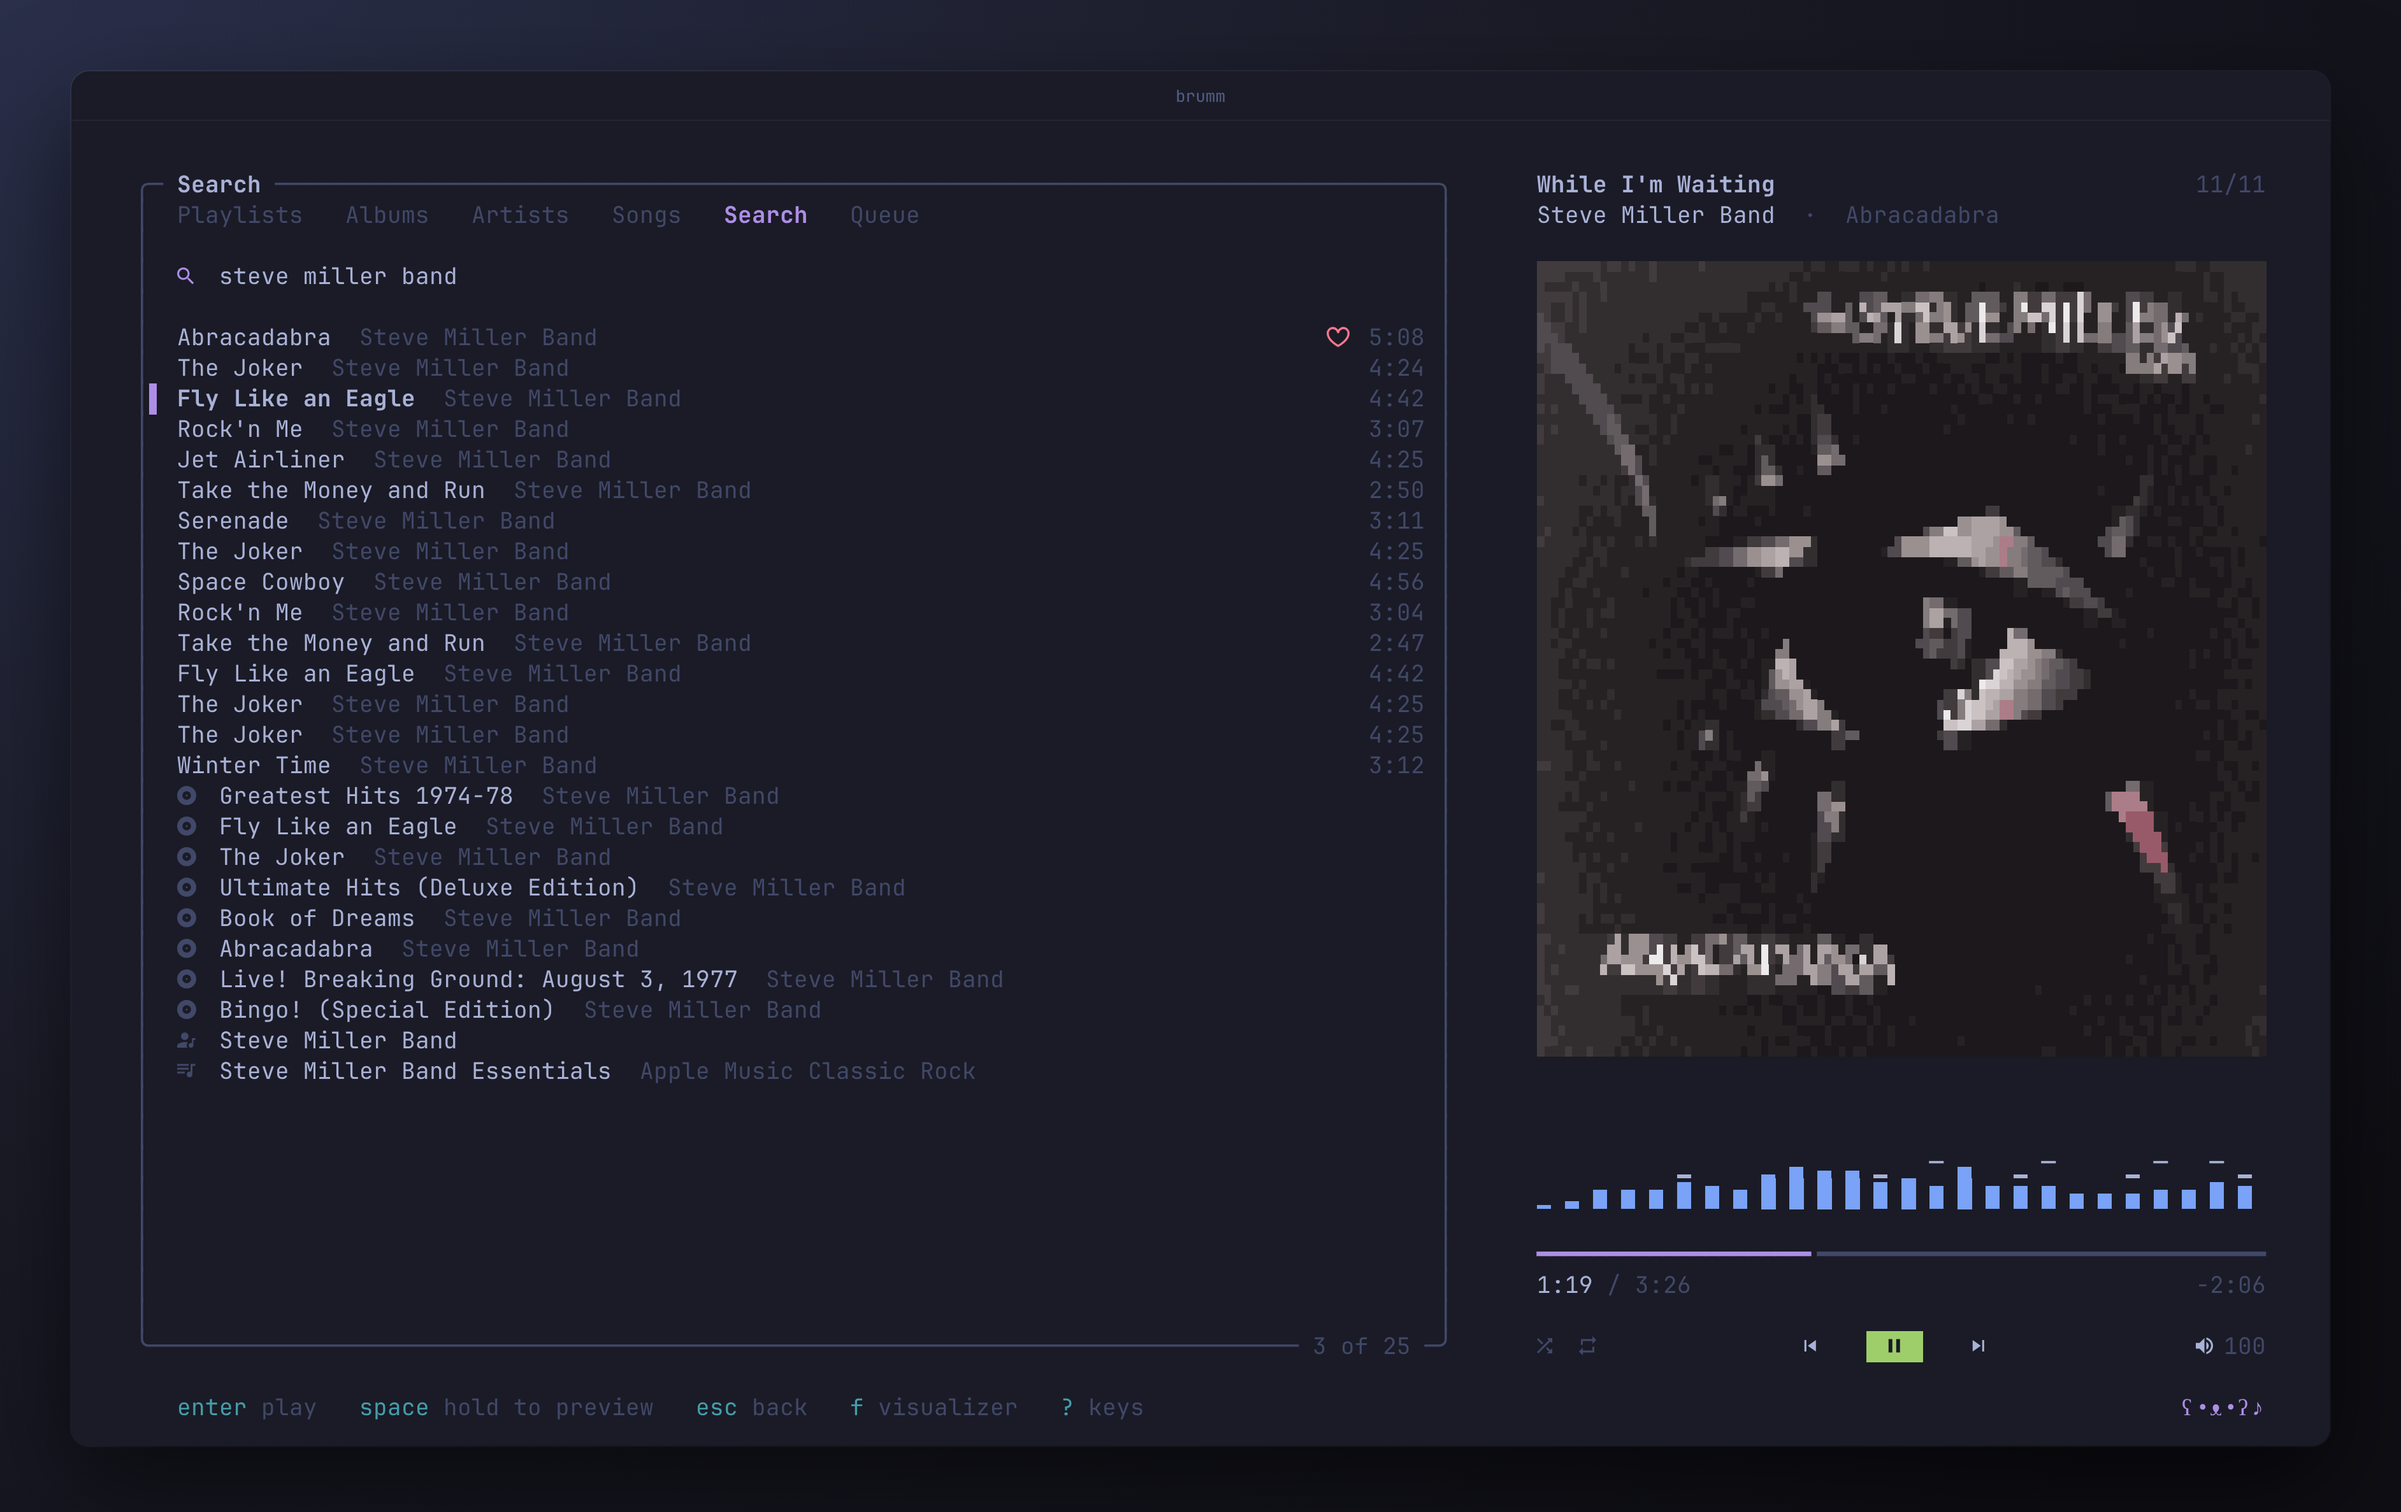
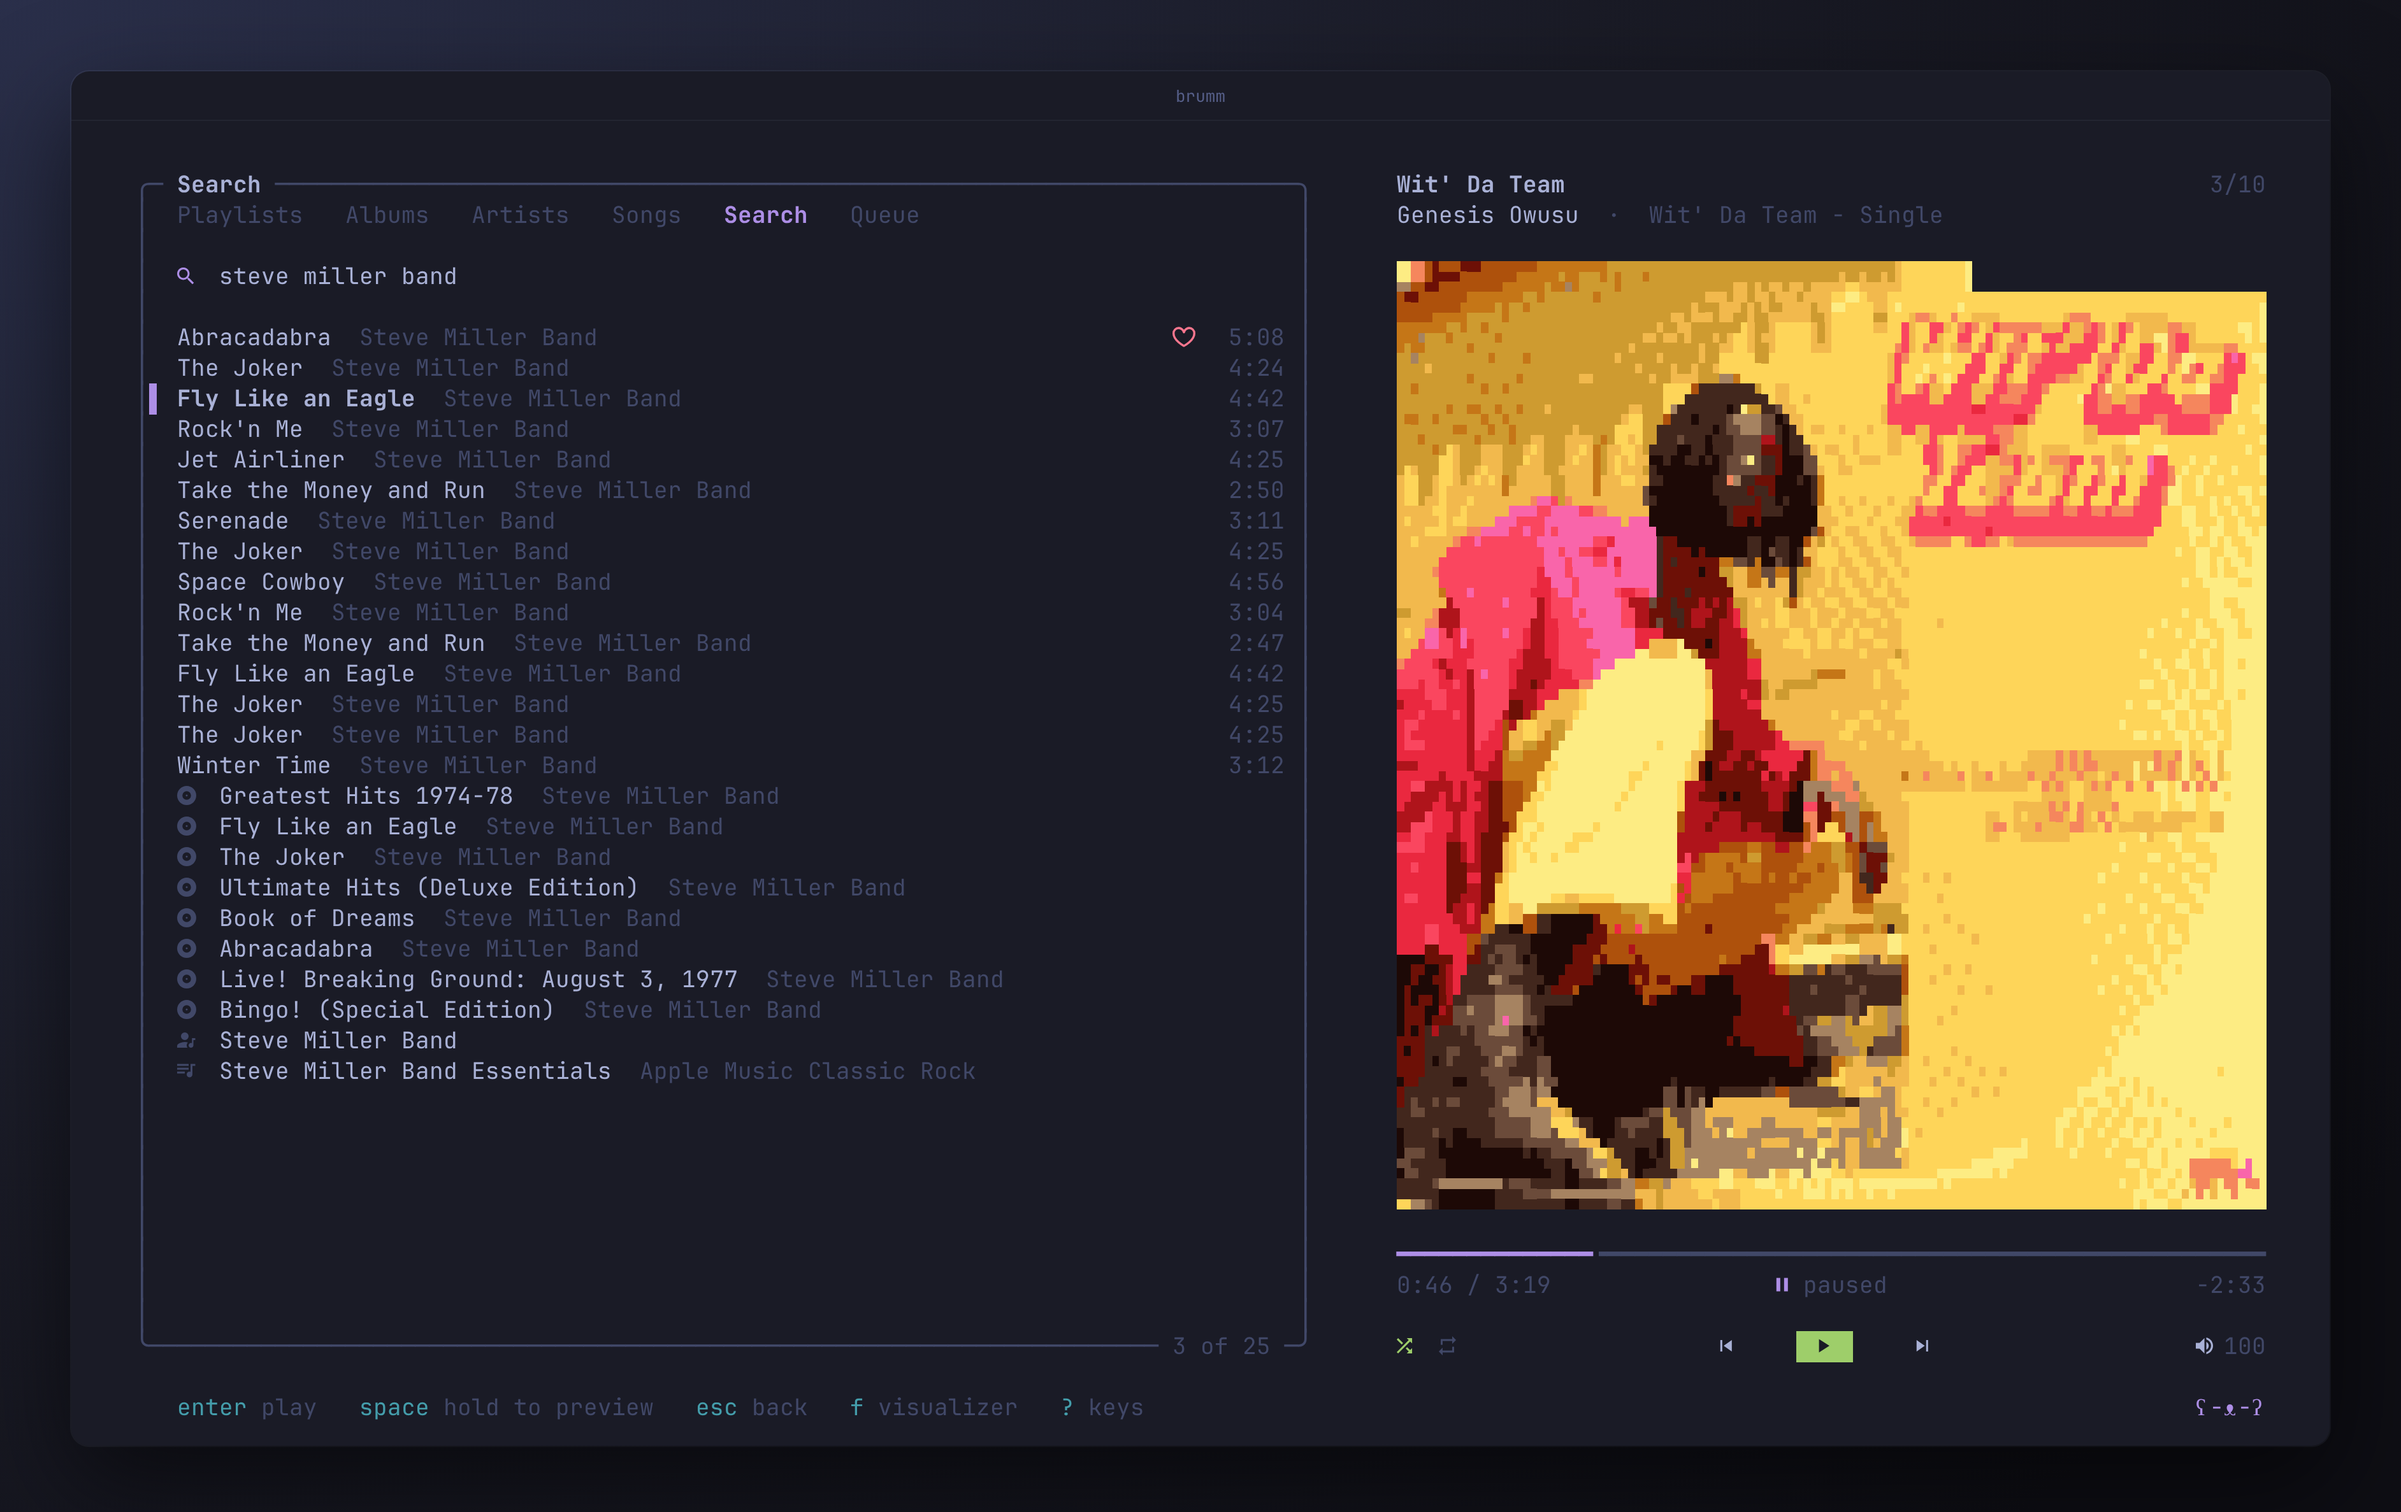
Preview cards for playlists and albums; half and half
- Lists of playlists, albums and artists show a card with the selected
  one's cover, name and artist in the room to their right; its cover is
  fetched first and cached like every other.
- The list takes half the width by default (drag or [ ] to change); the
  stage centers the cover in its half.

Changed region(s): [[0.5279, 0.0935, 0.9626, 0.8416], [0.7452, 0.8728, 0.8073, 0.904], [0.4968, 0.8728, 0.5279, 0.904]]

diff --git a/internal/tui/view.go b/internal/tui/view.go
@@ -95,10 +95,8 @@ func (m *Model) render() string {
 	inner := m.width - 2*margin
 	bodyH := m.height - bodyTop - 2 // blank line + footer
 
-	// The list gets at least its share of the width (2/5 unless dragged).
-	// The stage is one column as wide as the cover, which is as large as
-	// the rest of the width and the height allow; any width the cover
-	// cannot use goes back to the list, so nothing floats in a gap.
+	// The list takes its share of the width — half unless dragged — and the
+	// stage the rest, with the cover's column centered in it.
 	gapW := 2 + 2*stagePad
 	navW := int(math.Round(float64(inner) * m.split))
 	navW = max(navMin, min(navW, inner-gapW-colMin))
@@ -112,12 +110,15 @@ func (m *Model) render() string {
 		coverH := max(0, bodyH-1-stageBelow)
 		coverH = min(coverH, int(float64(room)/m.cellAspect))
 		colW := max(colMin, min(room, int(math.Round(float64(coverH)*m.cellAspect))))
-		navW = inner - gapW - colW
-		stageX := margin + navW + gapW
+		inset := (room - colW) / 2
+		stageX := margin + navW + gapW + inset
 		m.geo.divider = rect{margin + navW - 1, bodyTop, margin + navW + gapW, bodyTop + bodyH}
+		stage := strings.Split(m.stage(colW, coverH, bodyH, stageX, bodyTop), "\n")
+		for i := range stage {
+			stage[i] = strings.Repeat(" ", inset) + stage[i] + strings.Repeat(" ", room-colW-inset)
+		}
 		body = lipgloss.JoinHorizontal(lipgloss.Top,
-			m.nav(navW, bodyH, margin, bodyTop), strings.Repeat(" ", gapW),
-			m.stage(colW, coverH, bodyH, stageX, bodyTop))
+			m.nav(navW, bodyH, margin, bodyTop), strings.Repeat(" ", gapW), strings.Join(stage, "\n"))
 	}
 	pad := strings.Repeat(" ", margin)
 	lines := strings.Split(body, "\n")
@@ -217,8 +218,28 @@ func (m *Model) nav(w, h, x, y int) string {
 	default:
 		v.off = scroll(v.sel, v.off, rows)
 		m.geo.list = rect{x + 1, top, x + w - 1, top + rows}
-		for i := v.off; i < len(v.rows) && i < v.off+rows; i++ {
-			lines = append(lines, m.row(v, i, inner))
+		// Lists of playlists, albums and artists are short names with room
+		// to spare: the right side shows a card for the selected one.
+		card := m.previewCard(v, inner, rows)
+		listW := inner
+		if card != nil {
+			listW = inner - lipgloss.Width(card[0]) - 3
+		}
+		for i := v.off; i < v.off+rows; i++ {
+			line := ""
+			if i < len(v.rows) {
+				line = m.row(v, i, listW)
+			} else if card == nil {
+				break
+			}
+			if card != nil {
+				c := ""
+				if j := i - v.off; j < len(card) {
+					c = card[j]
+				}
+				line = pad(line, listW) + "   " + c
+			}
+			lines = append(lines, line)
 		}
 	}
 
@@ -249,6 +270,48 @@ func (m *Model) searchBox(w int) string {
 		return sDim.Render(icSearch + "  search Apple Music")
 	}
 	return sHere.Render(icSearch) + "  " + ansi.TruncateLeft(q, max(0, lipgloss.Width(q)-(w-5)), "…") + cursor
+}
+
+// previewCard is the selected item's cover with its name under it, for
+// lists of items wide enough to hold it; nil otherwise.
+func (m *Model) previewCard(v *view, inner, rows int) []string {
+	if v.sel >= len(v.rows) || v.rows[v.sel].item == nil || inner < 70 || rows < 12 {
+		return nil
+	}
+	it := v.rows[v.sel].item
+	cw := min(inner*2/5, 44)
+	chh := min(rows-3, int(float64(cw)/m.cellAspect))
+	cw = int(math.Round(float64(chh) * m.cellAspect))
+	if chh < 6 {
+		return nil
+	}
+	var out []string
+	size := art.Size{Width: cw, Height: chh}
+	key := fmt.Sprintf("%s@%dx%d", it.Artwork, cw, chh)
+	if lines, ok := m.thumbs[key]; ok {
+		out = append(out, lines...)
+	} else if img := m.covers[it.Artwork]; img != nil {
+		lines := art.RenderDithered(img, size)
+		m.thumbs[key] = lines
+		out = append(out, lines...)
+	} else {
+		icon := map[string]string{apple.KindPlaylist: icPlaylist, apple.KindAlbum: icAlbum, apple.KindArtist: icArtist}[it.Kind]
+		for i := range chh {
+			l := strings.Repeat("░", cw)
+			if i == chh/2 {
+				l = strings.Repeat("░", cw/2-1) + " " + icon + " " + strings.Repeat("░", cw-cw/2-2)
+			}
+			out = append(out, sDim.Render(l))
+		}
+	}
+	out = append(out, "", sBold.Render(ansi.Truncate(it.Name, cw, "…")))
+	if it.Artist != "" {
+		out = append(out, sDim.Render(ansi.Truncate(it.Artist, cw, "…")))
+	}
+	for i := range out {
+		out[i] = pad(out[i], cw)
+	}
+	return out
 }
 
 // row renders one list line: the selection gutter, the text (the

diff --git a/internal/tui/model.go b/internal/tui/model.go
@@ -152,6 +152,7 @@ type Model struct {
 	covers   map[string]image.Image // recently seen covers by address
 	coverLRU []string
 	fetching map[string]bool
+	thumbs   map[string][]string // rendered preview-card covers by address and size
 
 	flash   string
 	flashAt time.Time
@@ -198,7 +199,7 @@ func newModel(client *ipc.Client, initial ipc.State) *Model {
 	m.stacks[secSearch] = []*view{{title: "Search", key: "search:", loaded: true}}
 	m.stacks[secQueue] = []*view{{title: "Queue", key: "queue:"}}
 	m.loved = map[string]bool{}
-	m.covers, m.fetching = map[string]image.Image{}, map[string]bool{}
+	m.covers, m.fetching, m.thumbs = map[string]image.Image{}, map[string]bool{}, map[string][]string{}
 	return m
 }
 
@@ -388,6 +389,9 @@ func (m *Model) keepCover(url string, img image.Image) {
 		delete(m.covers, m.coverLRU[0])
 		m.coverLRU = m.coverLRU[1:]
 	}
+	if len(m.thumbs) > 40 {
+		m.thumbs = map[string][]string{}
+	}
 }
 
 // prefetchCovers loads the covers of the rows on screen and just beyond,
@@ -396,16 +400,29 @@ func (m *Model) prefetchCovers(v *view) tea.Cmd {
 	var cmds []tea.Cmd
 	seen := map[string]bool{}
 	lo, hi := max(0, v.off-10), min(len(v.rows), v.off+m.listRows()+10)
-	for i := lo; i < hi && len(cmds) < 8; i++ {
-		t := v.rows[i].track
-		if t == nil || t.Artwork == "" || seen[t.Artwork] {
+	// The selected row first: its preview card shows it.
+	order := []int{v.sel}
+	for i := lo; i < hi; i++ {
+		order = append(order, i)
+	}
+	for _, i := range order {
+		if i < 0 || i >= len(v.rows) || len(cmds) >= 8 {
 			continue
 		}
-		seen[t.Artwork] = true
-		if _, ok := m.covers[t.Artwork]; ok {
+		url := ""
+		if t := v.rows[i].track; t != nil {
+			url = t.Artwork
+		} else if it := v.rows[i].item; it != nil {
+			url = it.Artwork
+		}
+		if url == "" || seen[url] {
 			continue
 		}
-		if cmd := m.fetchCover(t.Artwork); cmd != nil {
+		seen[url] = true
+		if _, ok := m.covers[url]; ok {
+			continue
+		}
+		if cmd := m.fetchCover(url); cmd != nil {
 			cmds = append(cmds, cmd)
 		}
 	}

diff --git a/internal/apple/apple.go b/internal/apple/apple.go
@@ -40,6 +40,7 @@ type Item struct {
 	Name    string `json:"name"`
 	Artist  string `json:"artist,omitempty"`
 	Catalog bool   `json:"catalog,omitempty"`
+	Artwork string `json:"artwork,omitempty"`
 }
 
 // Key identifies an item across kinds and sources.
@@ -65,6 +66,15 @@ type Track struct {
 // artworkSize is the cover size brumm asks for everywhere, so the same
 // cover always has the same address and caches once.
 const artworkSize = "600"
+
+func artworkURL(a *struct {
+	URL string `json:"url"`
+}) string {
+	if a == nil {
+		return ""
+	}
+	return strings.NewReplacer("{w}", artworkSize, "{h}", artworkSize).Replace(a.URL)
+}
 
 type Client struct {
 	dev, user string
@@ -213,7 +223,7 @@ func items(rs []resource, kind string, catalog bool) []Item {
 		if kind == KindPlaylist {
 			artist = a.CuratorName
 		}
-		out = append(out, Item{Kind: kind, ID: r.ID, Name: a.Name, Artist: artist, Catalog: catalog})
+		out = append(out, Item{Kind: kind, ID: r.ID, Name: a.Name, Artist: artist, Catalog: catalog, Artwork: artworkURL(a.Artwork)})
 	}
 	return out
 }
@@ -229,12 +239,8 @@ func tracks(rs []resource) []Track {
 		if a.PlayParams != nil && a.PlayParams.ID != "" {
 			id = a.PlayParams.ID
 		}
-		art := ""
-		if a.Artwork != nil {
-			art = strings.NewReplacer("{w}", artworkSize, "{h}", artworkSize).Replace(a.Artwork.URL)
-		}
 		out = append(out, Track{ID: id, Title: a.Name, Artist: a.ArtistName, Album: a.AlbumName,
-			Duration: float64(a.DurationMS) / 1000, Artwork: art})
+			Duration: float64(a.DurationMS) / 1000, Artwork: artworkURL(a.Artwork)})
 	}
 	return out
 }

diff --git a/internal/tui/run.go b/internal/tui/run.go
@@ -58,15 +58,15 @@ func binaryUpdated() bool {
 
 func splitPath() string { return filepath.Join(config.CacheDir(), "split") }
 
-// loadSplit is the list's remembered share of the width, 2/5 by default.
+// loadSplit is the list's remembered share of the width, half by default.
 func loadSplit() float64 {
 	b, err := os.ReadFile(splitPath())
 	if err != nil {
-		return 0.4
+		return 0.5
 	}
 	f, err := strconv.ParseFloat(strings.TrimSpace(string(b)), 64)
 	if err != nil || f < 0.2 || f > 0.75 {
-		return 0.4
+		return 0.5
 	}
 	return f
 }
